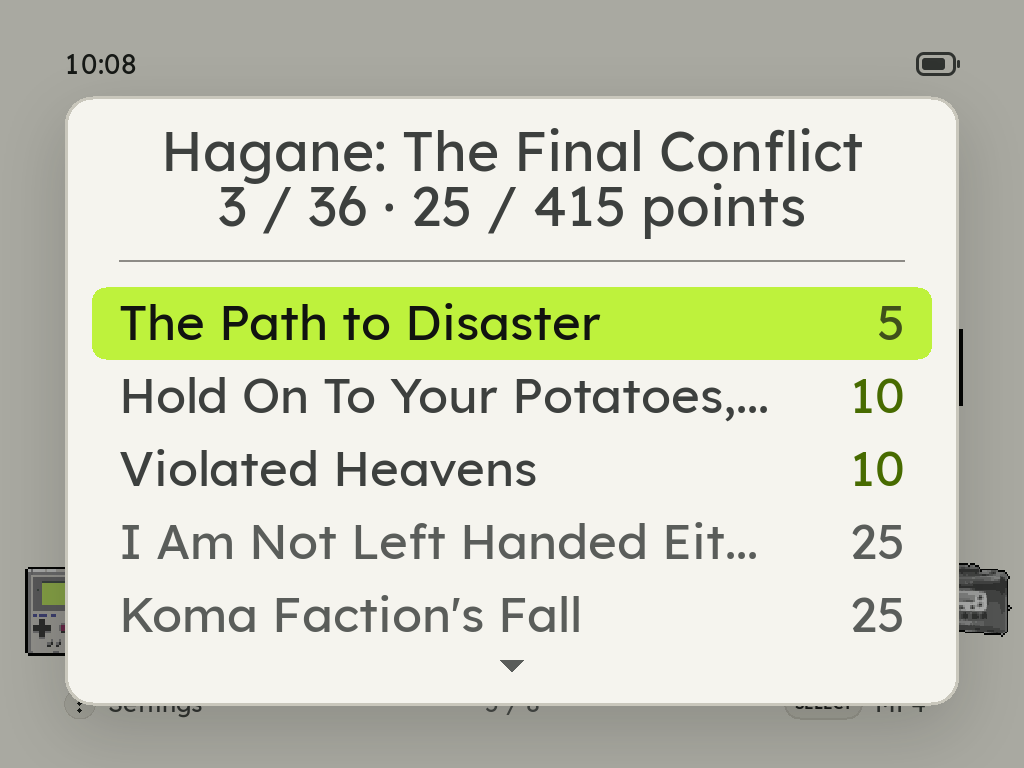
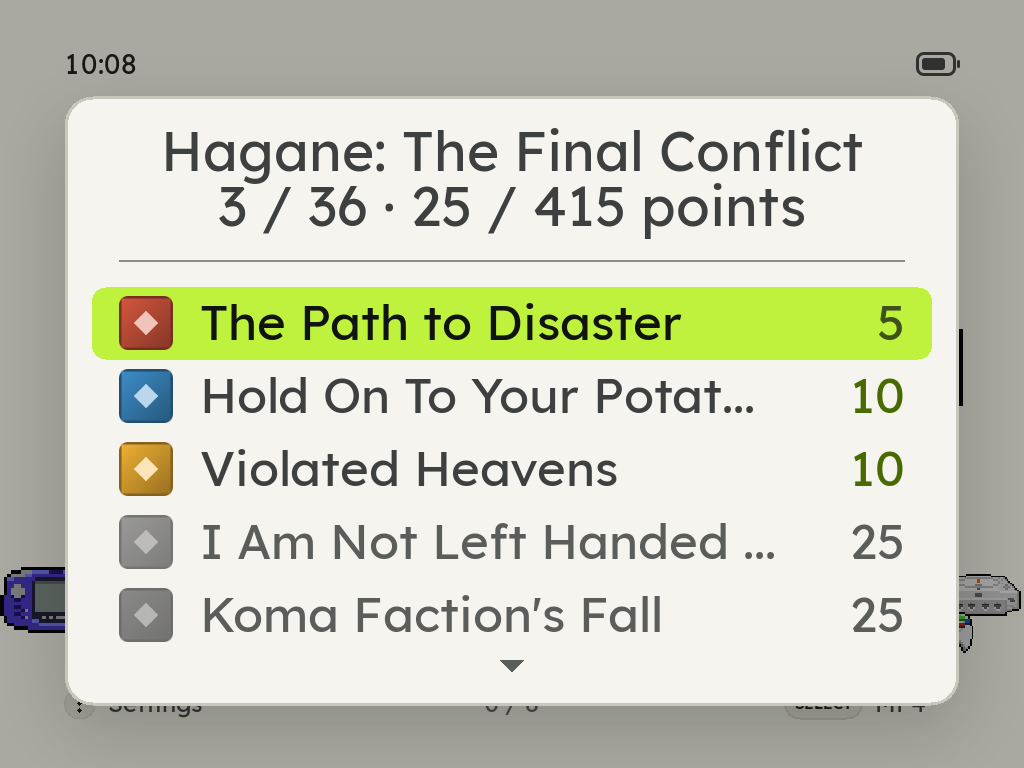
README and site: the unlock's notice, the list with badges, and the new name
I took the list's picture again with stand-in badges (a colored square and a
diamond each), so it shows what the README says it has, and added a picture
of the notice an unlock makes: its badge at the left and Zyper at the right.
Both are light-theme host shots of the launcher, recorded in captures.json.

The README, the site, the guide's blog post and the FAQ say Achievements
where they said Cheevos, say that Zyper cheers from the pop-up, and say what
shows until a badge is on the card.

Changed region(s): [[0.0938, 0.375, 0.75, 0.8438], [0.0, 0.7188, 0.0625, 0.875], [0.9375, 0.7188, 1.0, 0.8438]]

diff --git a/site/blog/retroachievements-gkd-pixel-2.html b/site/blog/retroachievements-gkd-pixel-2.html
@@ -22,10 +22,10 @@ weight: 40
 <h2>Sign in</h2>
 <ol>
   <li>Plug in the Wi-Fi adapter and join a network in <strong>MENU &gt; Wi-Fi</strong>.</li>
-  <li>Open <strong>MENU &gt; Cheevos</strong>. The row says <code>sign in</code>.</li>
+  <li>Open <strong>MENU &gt; Achievements</strong>. The row says <code>sign in</code>.</li>
   <li>Type your user name and password with the on-screen keyboard.</li>
 </ol>
-<p>The row then shows your account. The Cheevos row only appears while the Wi-Fi adapter is in, since signing in needs the network.</p>
+<p>The row then shows your account. The Achievements row only appears while the Wi-Fi adapter is in, since signing in needs the network.</p>
 
 <h2>Play</h2>
 <p>Start a game as usual. The first time a game starts, the handheld needs Wi-Fi to identify it and download its achievements. ZyperOS keeps them on the card, beside the box art, so from then on the game has its achievements with or without Wi-Fi.</p>
@@ -34,17 +34,18 @@ weight: 40
 
 <h2>Badges, pop-ups and the list</h2>
 <ul>
-  <li><strong>An unlock</strong> shows a notice at the bottom of the screen with the achievement's badge and name.</li>
+  <li><strong>An unlock</strong> shows a notice at the bottom of the screen with the achievement's badge and name, and Zyper at the right. Until the badge is on the card, a trophy stands in for it. The badges are fetched while the handheld is online and no game is running, never during a game.</li>
   <li><strong>Progress</strong>, for achievements that count something, shows a strip and a count such as <em>74 / 100</em>.</li>
   <li><strong>The side lights</strong> sparkle for an achievement: two pairs of lights take turns. <strong>MENU &gt; Side Lights</strong> turns that off.</li>
-  <li><strong>The list</strong>, Cheevos in the in-game menu, shows every achievement of the game with its badge, grey until you earn it, and the count where one is moving.</li>
+  <li><strong>The list</strong>, Achievements in the in-game menu, shows every achievement of the game with its badge, grey until you earn it, and the count where one is moving.</li>
 </ul>
-<figure class="shot"><img src="/img/cheevos.png" alt="The achievements list for a game: badges at the left, earned ones in color, the points and a progress count"><figcaption>Cheevos in the in-game menu: every achievement, with its badge and points.</figcaption></figure>
+<figure class="shot"><img src="/img/cheevo-notice.png" alt="The notice over a game when an achievement unlocks: its badge at the left, Unlocked and its points over its name, and Zyper at the right"><figcaption>An unlock over a game: its badge, its name and points, and Zyper.</figcaption></figure>
+<figure class="shot"><img src="/img/cheevos.png" alt="The achievements list for a game: badges at the left, earned ones in color, the points and a progress count"><figcaption>Achievements in the in-game menu: every achievement, with its badge and points.</figcaption></figure>
 <p>On the shelf, each game's card shows its achievement count under the title.</p>
 
 <h2>If an achievement does not unlock</h2>
 <ul>
-  <li><strong>Check the sign-in</strong> in MENU &gt; Cheevos.</li>
+  <li><strong>Check the sign-in</strong> in MENU &gt; Achievements.</li>
   <li><strong>Check the first start had Wi-Fi.</strong> Without it, ZyperOS cannot identify the game. Start it once with the adapter in.</li>
   <li><strong>Check the dump.</strong> A ROM with a different checksum is a game RetroAchievements has never seen. A zip is checked on its largest file, which is the one ZyperOS runs.</li>
 </ul>
@@ -52,7 +53,7 @@ weight: 40
 <h2>Sources</h2>
 <ol class="sources">
   <li><a href="https://github.com/tarikbc/ZyperOS#faq">ZyperOS README, FAQ: How do achievements work?</a></li>
-  <li><a href="https://github.com/tarikbc/ZyperOS/blob/main/docs/guide.md#controls-and-menus">The ZyperOS user guide</a>: the Cheevos row, the in-game menu, the side lights.</li>
+  <li><a href="https://github.com/tarikbc/ZyperOS/blob/main/docs/guide.md#controls-and-menus">The ZyperOS user guide</a>: the Achievements row, the in-game menu, the side lights.</li>
   <li><a href="https://github.com/tarikbc/ZyperOS/blob/main/DESIGN.md#117-notice-over-a-game">DESIGN.md, 11.7 Notice</a>: the badge and progress notices, and the achievements list.</li>
   <li><a href="https://github.com/tarikbc/ZyperOS/blob/main/src/rafetch.h">src/rafetch.h</a> and <a href="https://github.com/tarikbc/ZyperOS/blob/main/src/rahash.h">src/rahash.h</a>: softcore unlocks, and how a game is identified.</li>
 </ol>

diff --git a/site/index.html b/site/index.html
@@ -346,7 +346,7 @@
       <div><h3>Video snaps</h3><p>Rest on a game for a second and its cover turns into a few seconds of the game, from ScreenScraper. A play mark says which games have one.</p></div>
       <div><h3>Delete a game, and only that game</h3><p>X on a game, then Delete Game: it asks first, then takes the game with its saves, states, cover and video, and the shelf moves on. A file another game still uses stays, and so does a BIOS set like neogeo.zip.</p></div>
       <div><h3>Search and Random Game</h3><p>Find any game by a few letters of its name, or let ZyperOS pick one and start it.</p></div>
-      <div><h3>RetroAchievements</h3><p>Sign in on the device. Achievements download once and then work offline, with badges and progress pop-ups.</p></div>
+      <div><h3>RetroAchievements</h3><p>Sign in on the device, under MENU &gt; Achievements. Achievements download once and then work offline, with each one's badge, a pop-up with Zyper when you unlock one, and progress counts.</p></div>
       <div><h3>Ports</h3><p>A Ports shelf runs PortMaster games, such as Stardew Valley and Celeste.</p></div>
       <div><h3>Nintendo DS your way</h3><p>DSperate with three screen layouts and a d-pad stylus, or DraStic if you add it. Mario Kart DS races at 60 frames a second.</p></div>
       <div><h3>MP4</h3><p>Music, audiobooks and videos on a shelf of their own covers. SELECT opens it from anywhere, even in a game, and X locks the screen.</p></div>

diff --git a/site/blog/gkd-pixel-2-wifi-adapter.html b/site/blog/gkd-pixel-2-wifi-adapter.html
@@ -38,7 +38,7 @@ weight: 25
 <h2>Plug it in</h2>
 <ol>
   <li>Put the adapter in a USB-A to USB-C adapter, and that in the Pixel 2's USB-C port.</li>
-  <li>ZyperOS loads its driver when it is plugged in. The Wi-Fi rows appear in MENU: Wi-Fi, Cheevos and Wi-Fi File Transfer.</li>
+  <li>ZyperOS loads its driver when it is plugged in. The Wi-Fi rows appear in MENU: Wi-Fi, Achievements and Wi-Fi File Transfer.</li>
   <li>Open <strong>MENU &gt; Wi-Fi</strong>, pick your network and type its password. The handheld remembers it, on the card, and joins it again next time.</li>
 </ol>
 <p>Each time Wi-Fi connects, ZyperOS sets the clock from the network. Without an adapter, set the time once in <strong>MENU &gt; Date &amp; Time</strong>.</p>

diff --git a/README.md b/README.md
@@ -62,7 +62,7 @@ The name is also two words in one: **zippy** and **hyper**. Games start the mome
 - **A first start that asks:** Zyper says hello in each language until you pick yours, teaches each button and shows where it is on the Pixel 2, then asks for the theme, the home screen, the button sounds and the menu music ([below](#the-first-start)).
 - **An empty card that says what to do:** with no games yet, the home shows the two ways to add them, one button each, and Zyper cheers when the first ones arrive.
 - **Search Games and Random Game:** **MENU > Search Games** finds any game by a few letters of its name, on any system. **Random Game** picks one and starts it, from every system in MENU or from one shelf in that system's menu.
-- **RetroAchievements:** sign in on the device. A game's achievements download once and then work offline, and anything you unlock offline is sent later. Each one has its badge, and a count like "5 / 10" pops up as you get closer.
+- **RetroAchievements:** sign in on the device, under **MENU > Achievements**. A game's achievements download once and then work offline, and anything you unlock offline is sent later. Each one has its badge in the list and in the pop-up when you unlock it, a trophy standing in until the badge is on the card, Zyper cheers from the pop-up, and a count like "5 / 10" pops up as you get closer.
 - **Box art the device finds itself,** in **MENU > Scraper**: from libretro's collection with no account; from ScreenScraper with a free account, which brings each game's name, year, genre and synopsis too, in a build made with ScreenScraper's developer pair (the page says `not in this build` otherwise); and from SteamGridDB, with your own free key typed or pasted, for what neither has. Renamed ROM packs are matched by checksum, and each game shows under its proper name with its file left as it is. Or add your own.
 - **Delete a game from the handheld:** press X on a game and choose **Delete Game**. It asks first, naming the game, with the cursor on Cancel. The game's file or files go (a disc set's folder, a `.cue` with its tracks, an arcade set), with its saves, save states, cover, video snap, cached achievements, details and play time, and the shelf moves on to the next game. A file another game still uses stays, and so does a BIOS set like `neogeo.zip`.
 - **Video snaps:** rest on a game for a second, while a bar under its cover fills, and the cover turns into a few seconds of the game itself, from ScreenScraper. A play mark on a cover says its game has one. **MENU > Scraper > Video Snaps** turns them on, per console, and their sound starts muted.
@@ -456,7 +456,11 @@ A file that another game on the card still uses stays: a save two systems' games
 <details>
 <summary><b>How do achievements work?</b></summary>
 
-Sign in under **MENU > Cheevos** with your RetroAchievements account. A game's first start needs Wi-Fi, to identify the game and fetch its achievements. From then on it plays offline too: what you unlock without Wi-Fi waits on the card and reaches your account the next time the handheld connects.
+Sign in under **MENU > Achievements** with your RetroAchievements account. A game's first start needs Wi-Fi, to identify the game and fetch its achievements. From then on it plays offline too: what you unlock without Wi-Fi waits on the card and reaches your account the next time the handheld connects.
+
+<img src="res/readme/cheevo-notice.png" width="400" alt="The notice over a game when an achievement unlocks: its badge at the left, 'Unlocked · 10 points' over its name, and Zyper at the right">
+
+An unlock shows its badge, its name and its points for a few seconds, with Zyper at the right. Each achievement's badge is a small picture (64 pixels) from RetroAchievements, kept on the card beside the game's achievements. It is fetched when the handheld is online and the game is not running, never during a game, so no frame waits on the network. Until a badge is on the card, in the list and in the pop-up a trophy takes its place, and it changes to the badge by itself. A handheld that is never online can get them from a computer: `tools/ra-sets.py` puts each game's achievements and badges on the card.
 
 </details>
 
